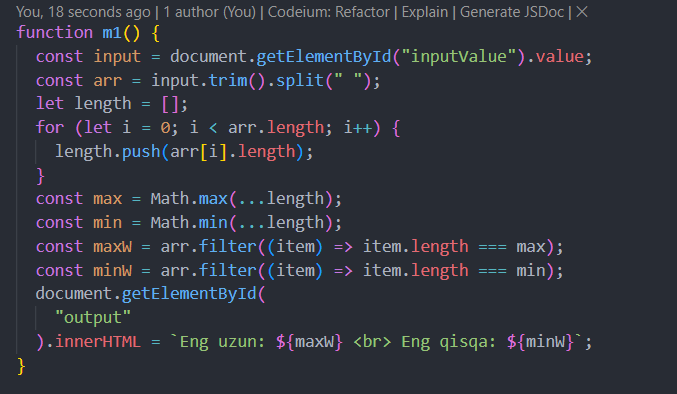
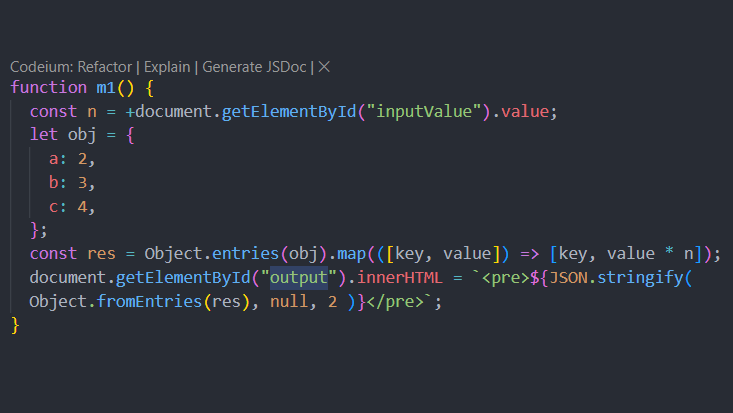
some

diff --git a/app.js b/app.js
@@ -1,59 +1,103 @@
 function m1() {
-  const input = document.getElementById("inputValue").value;
-  const arr = input.trim().split(" ");
-  let length = [];
-  for (let i = 0; i < arr.length; i++) {
-    length.push(arr[i].length);
-  }
-  const max = Math.max(...length);
-  const min = Math.min(...length);
-  const maxW = arr.filter((item) => item.length === max);
-  const minW = arr.filter((item) => item.length === min);
-  document.getElementById(
-    "output"
-  ).innerHTML = `Eng uzun: ${maxW} <br> Eng qisqa: ${minW}`;
+  const n = +document.getElementById("inputValue").value;
+  let obj = {
+    a: 2,
+    b: 3,
+    c: 4,
+  };
+  const res = Object.entries(obj).map(([key, value]) => [key, value * n]);
+  document.getElementById("output").innerHTML = `<pre>${JSON.stringify(
+    Object.fromEntries(res),
+    null,
+    2
+  )}</pre>`;
 }
 
 function m2() {
-  const input = document.getElementById("inputValue2").value;
-  const reverse = input.split("").reverse().join("");
-  document.getElementById("output2").innerHTML = `Teskari qilingan: ${reverse}`;
+  const books = [
+    { title: "Halqa", author: "Akrom Malik", read: false },
+    { title: "Dunyoning ishlari", author: "O’tkir Hoshimov", read: true },
+    {
+      title: "Iymon",
+      author: "Shayx Muhammad Sodiq Muhammad Yusuf",
+      read: true,
+    },
+  ];
+  books.forEach((book) => {
+    if (book.read) {
+      document.getElementById(
+        "output2"
+      ).innerHTML += `${book.title} - ${book.author}:  o'qildi. <br>`;
+    } else {
+      document.getElementById(
+        "output2"
+      ).innerHTML += `${book.title} - ${book.author}:  o'qilmadi <br>`;
+    }
+  });
 }
-
-function m3() {
+function m3(){
   const input = document.getElementById("inputValue3").value;
-  const array = input.trim().split(" ");
-  const reversed = [];
-  for (let i = 0; i < array.length; i++) {
-    const el = array[i];
-    reversed.push(el.split("").reverse().join(""));
+  const arr = input.trim().split(" ");
+  let obj = {};
+
+  for (let i = 0; i < arr.length; i++) {
+    let count = 0;
+    const el = arr[i];
+    for (let c = 0; c < arr.length; c++) {
+      const e = arr[c];
+      if (el === e) {
+        count++;
+      }
+    }
+    obj[el] = count;
   }
-  document.getElementById("output3").innerHTML = ` "${reversed.join(" ")}"`;
+
+  const formattedOutput = JSON.stringify(obj, null, 4);
+  document.getElementById(
+    "output3"
+  ).innerHTML = `<pre>${formattedOutput}</pre>`;
 }
 
 function m4() {
-  const input = document.getElementById("inputValue4").value;
-  const array = input.trim().split(" ");
-  const result = array[array.length - 1].length;
-  return (document.getElementById(
-    "output4"
-  ).innerHTML = `Oxirgi so'z lengthi: ${result} `);
+  const obj = [
+    {                 
+      name: "John",
+      age: 30,
+    },
+    {
+      name: "Simon",
+      age: 10,
+    },
+    {
+      name: "Jack",
+      age: 20,
+    },
+    {
+      name: "Cate",
+      age: 80,
+    },
+    {
+      name: "Jane",
+      age: 67,
+    },
+  ];
+
+  const sorted = obj.sort((a, b) => b.age - a.age);
+  let res = sorted[0].age - sorted[sorted.length - 1].age;
+  document.getElementById("output4").innerHTML = `Yosh farqi: ${res}`;
 }
 
 function m5() {
   const input = document.getElementById("inputValue5").value;
   const array = input.trim().split(" ");
-  let newArr = [];
-
-  newArr = array.filter(
-    (item) =>
-      array.indexOf(item) !== array.lastIndexOf(item) &&
-      newArr.indexOf(item) === -1
-  );
-  const set = new Set(newArr);
-  document.getElementById("output5").innerHTML = `New arr: [ ${newArr.join(
-    ", "
-  )} ]  <br> or <br> Sorted Version: [ ${[...set].join(", ")} ]`;
+  let obj = {};
+  const minWord = Math.min(...array);
+  console.log(minWord);
+  
+  const maxWord = Math.max(...array)
+  obj.miWord = minWord
+  obj.maxWord = maxWord
+  document.getElementById("output5").innerHTML = `<pre> ${JSON.stringify(obj, null, 2)} </pre>`
 }
 
 function m6() {
@@ -61,8 +105,6 @@ function m6() {
   const array = input.trim().split(" ").join("");
   document.getElementById("output6").innerHTML = `Probelar siz: "${array}"`;
 }
-
-
 
 function m7() {
   const input = document.getElementById("inputValue7").value;
@@ -73,11 +115,6 @@ function m7() {
   const newArr = numbersArray.reduce((acc, item) => acc + item, 0);
   document.getElementById("output7").innerHTML = `Yigindi: [ ${newArr} ]`;
 }
-
-
-
-
-
 
 // SOME FUNCTION -=-=-=-=-=-=-=-=-=-=-=-=-=-=-=-=-=-=-=-=-=-=-=-=-=-=-=-=-=-=-=-=-=-
 

diff --git a/index.html b/index.html
@@ -59,16 +59,15 @@
       <section id="first">
         <div id="content">
           <h2 class="limited-line">
-            <span>Masala-1.</span>Berilgann gapdagi eng uzun va eng qisqa so'zni
-            aniqlaydigan so'zni toping. <br />
-            <span>Masalan:</span> Hello, Hi, How => Hello and Hi
+            <span>Masala-1.</span>Qiymatlari sonlardan iborat bolgan object
+            berilgan. Qiymatlarini n martaga ochiruvchi dastur tuzing.
           </h2>
           <br />
-          <input id="inputValue" type="text" placeholder="Ex: 3 3 4 4 5" />
-          <button class="button-85" role="button" onclick="m1()">
+          <input id="inputValue" type="text" placeholder="n = (Any number)" />
+          <button class="button-85" role="button" onclick="m1()"> 
             Hisoblash
           </button>
-          <div class="output" id="output"><p>Output</p></div>
+          <div style="text-align: start; padding: 10px;" class="output" id="output"></div>
         </div>
         <img
           class="code"
@@ -84,23 +83,20 @@
       <section id="second">
         <div id="content">
           <h2 class="limited-line">
-            <span>Masala-2 </span> Berilgan so'zni teskari qilib yozib beradigan
-            dastur tuzing.
-            <br />
-            <span>Masalan:</span> Abdulloh => holludbA
+            <span>Masala-2 </span> Quyidagi korinishda object lardan tuzilgan array berildi. Agar read property
+            true bolsa osha kitob oqigan deb chiqarsin, aks holda oqilmagan deb 
+            chiqarsin
+            
           </h2>
           <br />
-          <input
-            id="inputValue2"
-            class="first-input"
-            type="text"
-            placeholder="Ex: Abdulloh"
-          />
+         
 
           <button class="button-85" role="button" onclick="m2()">
             Hisoblash
           </button>
-          <div class="output" id="output2"><p>Output</p></div>
+          <div style="text-align: start; padding: 10px;" class="output" id="output2">
+            
+          </div>
         </div>
         <img
           class="code"
@@ -127,7 +123,7 @@
             Hisoblash
           </button>
 
-          <div class="output" id="output3">
+          <div class="output" style="text-align: start; padding: 10px" id="output3">
             <p>Output</p>
           </div>
         </div>
@@ -145,15 +141,10 @@
       <section id="fourth">
         <div id="content">
           <h2 class="limited-line">
-            <span>Masala-4</span> Sizda qandaydur string bor va shundagi oxirgi
-            so'zning lengthini topadigan funksiya tuzing.
+            <span>Masala-4</span>raydagi eng yosh va eng qarilarni topib, ularni yoshlarini farqini toping.
+            (sort).
           </h2>
           <br />
-          <input
-            id="inputValue4"
-            type="text"
-            placeholder="Any type of string"
-          />
 
           <button class="button-85" role="button" onclick="m4()">
             Hisoblash
@@ -184,7 +175,7 @@
           <button class="button-85" role="button" onclick="m5()">
             Hisoblash
           </button>
-          <div class="output" id="output5"><p>Output</p></div>
+          <div class="output" style="text-align: start; padding: 10px;" id="output5"></div>
         </div>
         <img
           class="code"
@@ -207,7 +198,6 @@
           <br />
 
           <input id="inputValue6" type="text" placeholder="Ex: Hello World" />
-
 
           <button class="button-85" role="button" onclick="m6()">
             Hisoblash

diff --git a/style.css b/style.css
@@ -204,13 +204,14 @@ section {
   display: flex;
   align-items: center;
   justify-content: space-between;
+  gap: 20px;
 }
 section:nth-child(even) {
   flex-direction: row-reverse;
 }
 #content {
   background-color: var(--content-bg-color);
-  padding: 30px;
+  padding: 30px 50px;
   border-radius: var(--border-radius);
   width: 40vw;
   box-shadow: 0 0 10px rgba(0, 0, 0, 0.5);
@@ -271,7 +272,7 @@ button:hover {
   margin-top: 20px;
   font-size: 20px;
   min-height: 40px;
-  width: 70%;
+  min-width: 70%;
   background-color: var(--btns-bg);
   backdrop-filter: blur(420px);
   box-shadow: 0 0 10px rgba(0, 0, 0, 0.3);
@@ -285,6 +286,7 @@ button:hover {
 }
 h2 {
   font-weight: 550;
+  font-size: 25px;
   margin-bottom: 20px;
 }
 ::selection {
